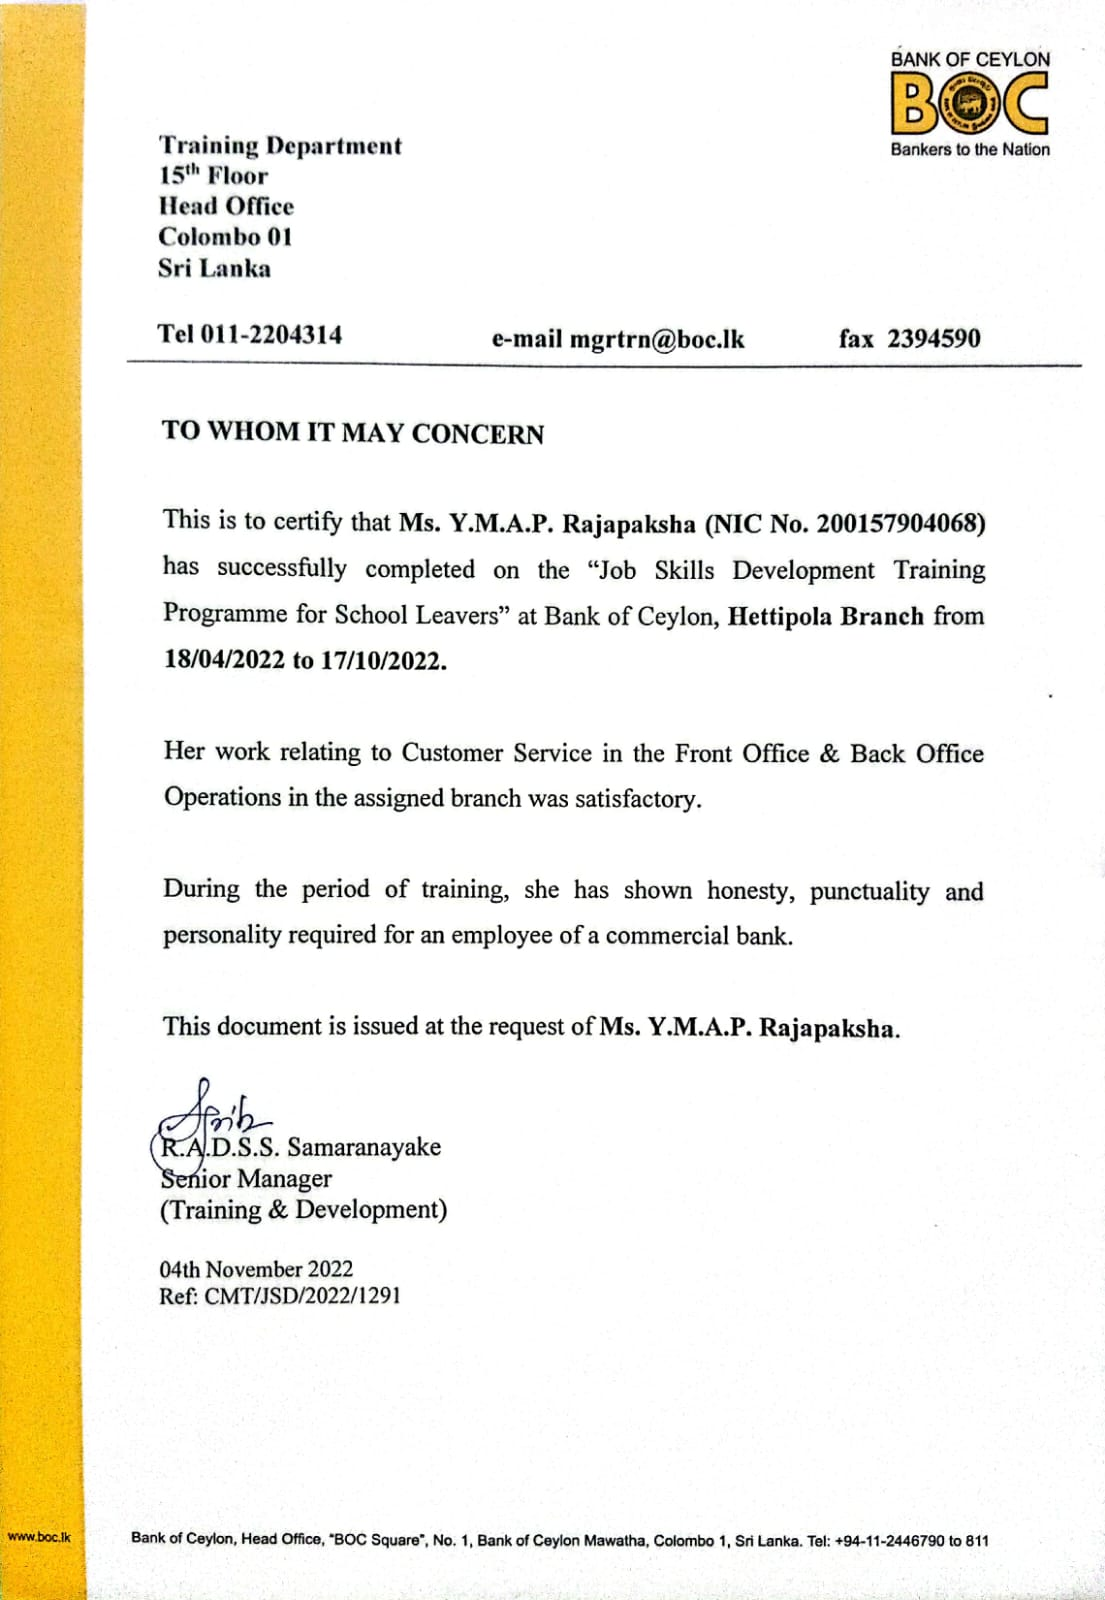
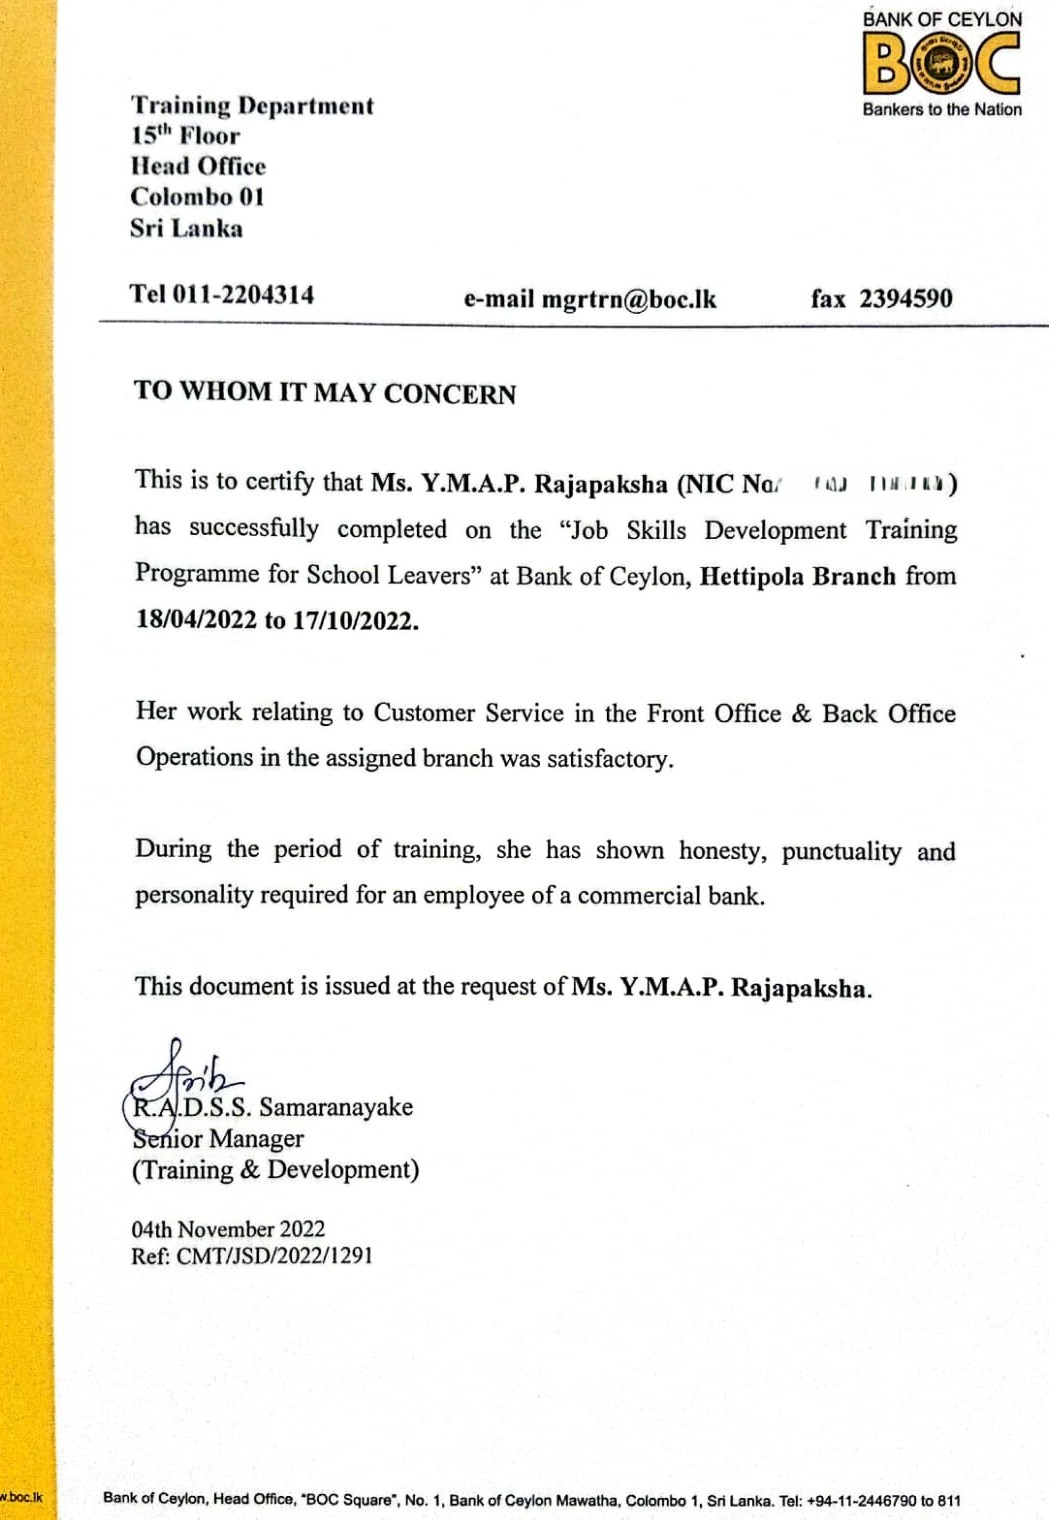
updated

diff --git a/_site/post/2026-06-01-python_module.html b/_site/post/2026-06-01-python_module.html
@@ -244,7 +244,7 @@ pre > code.sourceCode > span > a:first-child::before { text-decoration: underlin
 <section id="step-1-create-a-module" class="level2">
 <h2 class="anchored" data-anchor-id="step-1-create-a-module">Step 1: Create a Module</h2>
 <p>First, create a new Python file named <code>calc.py</code>. Save this file in a folder of your choice. Inside the file, define two simple functions named add() and subtract().</p>
-<div id="bccba8f2" class="cell" data-execution_count="1">
+<div id="cd2e7c20" class="cell" data-execution_count="1">
 <div class="code-copy-outer-scaffold"><div class="sourceCode cell-code" id="cb1"><pre class="sourceCode python code-with-copy"><code class="sourceCode python"><span id="cb1-1"><a href="#cb1-1" aria-hidden="true" tabindex="-1"></a><span class="co"># calc.py</span></span>
 <span id="cb1-2"><a href="#cb1-2" aria-hidden="true" tabindex="-1"></a><span class="kw">def</span> add(x, y):</span>
 <span id="cb1-3"><a href="#cb1-3" aria-hidden="true" tabindex="-1"></a>    <span class="cf">return</span> (x<span class="op">+</span>y)</span>
@@ -257,7 +257,7 @@ pre > code.sourceCode > span > a:first-child::before { text-decoration: underlin
 <section id="step-2-use-the-module" class="level2">
 <h2 class="anchored" data-anchor-id="step-2-use-the-module">Step 2: Use the Module</h2>
 <p>Now create another Python file in the same folder and import the module.</p>
-<div id="d9763806" class="cell" data-execution_count="2">
+<div id="56321fdb" class="cell" data-execution_count="2">
 <div class="code-copy-outer-scaffold"><div class="sourceCode cell-code" id="cb2"><pre class="sourceCode python code-with-copy"><code class="sourceCode python"><span id="cb2-1"><a href="#cb2-1" aria-hidden="true" tabindex="-1"></a><span class="im">import</span> calc </span>
 <span id="cb2-2"><a href="#cb2-2" aria-hidden="true" tabindex="-1"></a></span>
 <span id="cb2-3"><a href="#cb2-3" aria-hidden="true" tabindex="-1"></a><span class="bu">print</span>(calc.add(<span class="dv">10</span>, <span class="dv">2</span>)) </span>
@@ -272,7 +272,7 @@ pre > code.sourceCode > span > a:first-child::before { text-decoration: underlin
 <section id="importing-specific-functions" class="level2">
 <h2 class="anchored" data-anchor-id="importing-specific-functions">Importing Specific Functions</h2>
 <p>Sometimes you only need one or two functions from a module. Instead of importing the entire module, you can import only the functions you need.</p>
-<div id="5f2484b6" class="cell" data-execution_count="3">
+<div id="151f2937" class="cell" data-execution_count="3">
 <div class="code-copy-outer-scaffold"><div class="sourceCode cell-code" id="cb4"><pre class="sourceCode python code-with-copy"><code class="sourceCode python"><span id="cb4-1"><a href="#cb4-1" aria-hidden="true" tabindex="-1"></a><span class="im">from</span> calc <span class="im">import</span> add </span>
 <span id="cb4-2"><a href="#cb4-2" aria-hidden="true" tabindex="-1"></a></span>
 <span id="cb4-3"><a href="#cb4-3" aria-hidden="true" tabindex="-1"></a><span class="bu">print</span>(add(<span class="dv">5</span>, <span class="dv">3</span>))</span></code></pre></div><button title="Copy to Clipboard" class="code-copy-button"><i class="bi"></i></button></div>
@@ -281,7 +281,7 @@ pre > code.sourceCode > span > a:first-child::before { text-decoration: underlin
 </div>
 </div>
 <p>You can also import multiple functions at once.</p>
-<div id="46b74be2" class="cell" data-execution_count="4">
+<div id="53ab1b98" class="cell" data-execution_count="4">
 <div class="code-copy-outer-scaffold"><div class="sourceCode cell-code" id="cb6"><pre class="sourceCode python code-with-copy"><code class="sourceCode python"><span id="cb6-1"><a href="#cb6-1" aria-hidden="true" tabindex="-1"></a><span class="im">from</span> calc <span class="im">import</span> add, subtract </span>
 <span id="cb6-2"><a href="#cb6-2" aria-hidden="true" tabindex="-1"></a></span>
 <span id="cb6-3"><a href="#cb6-3" aria-hidden="true" tabindex="-1"></a><span class="bu">print</span>(add(<span class="dv">7</span>, <span class="dv">4</span>)) </span>
